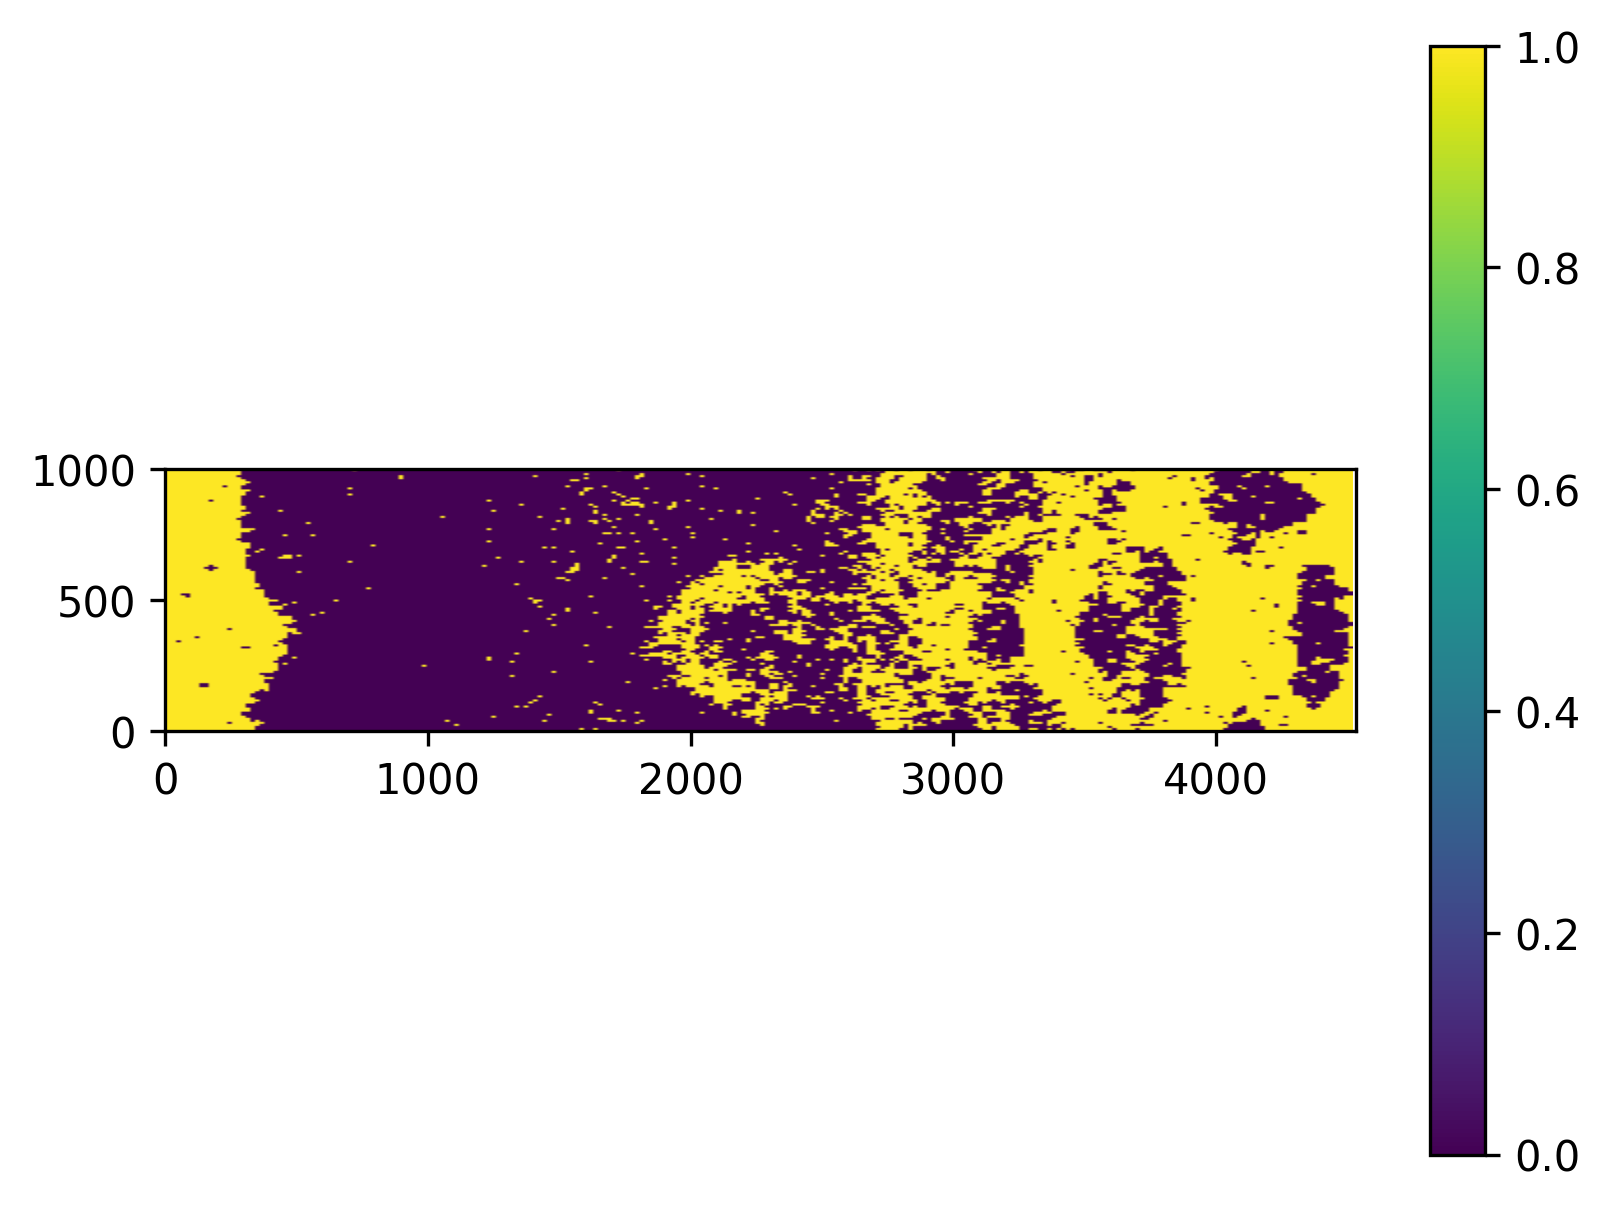
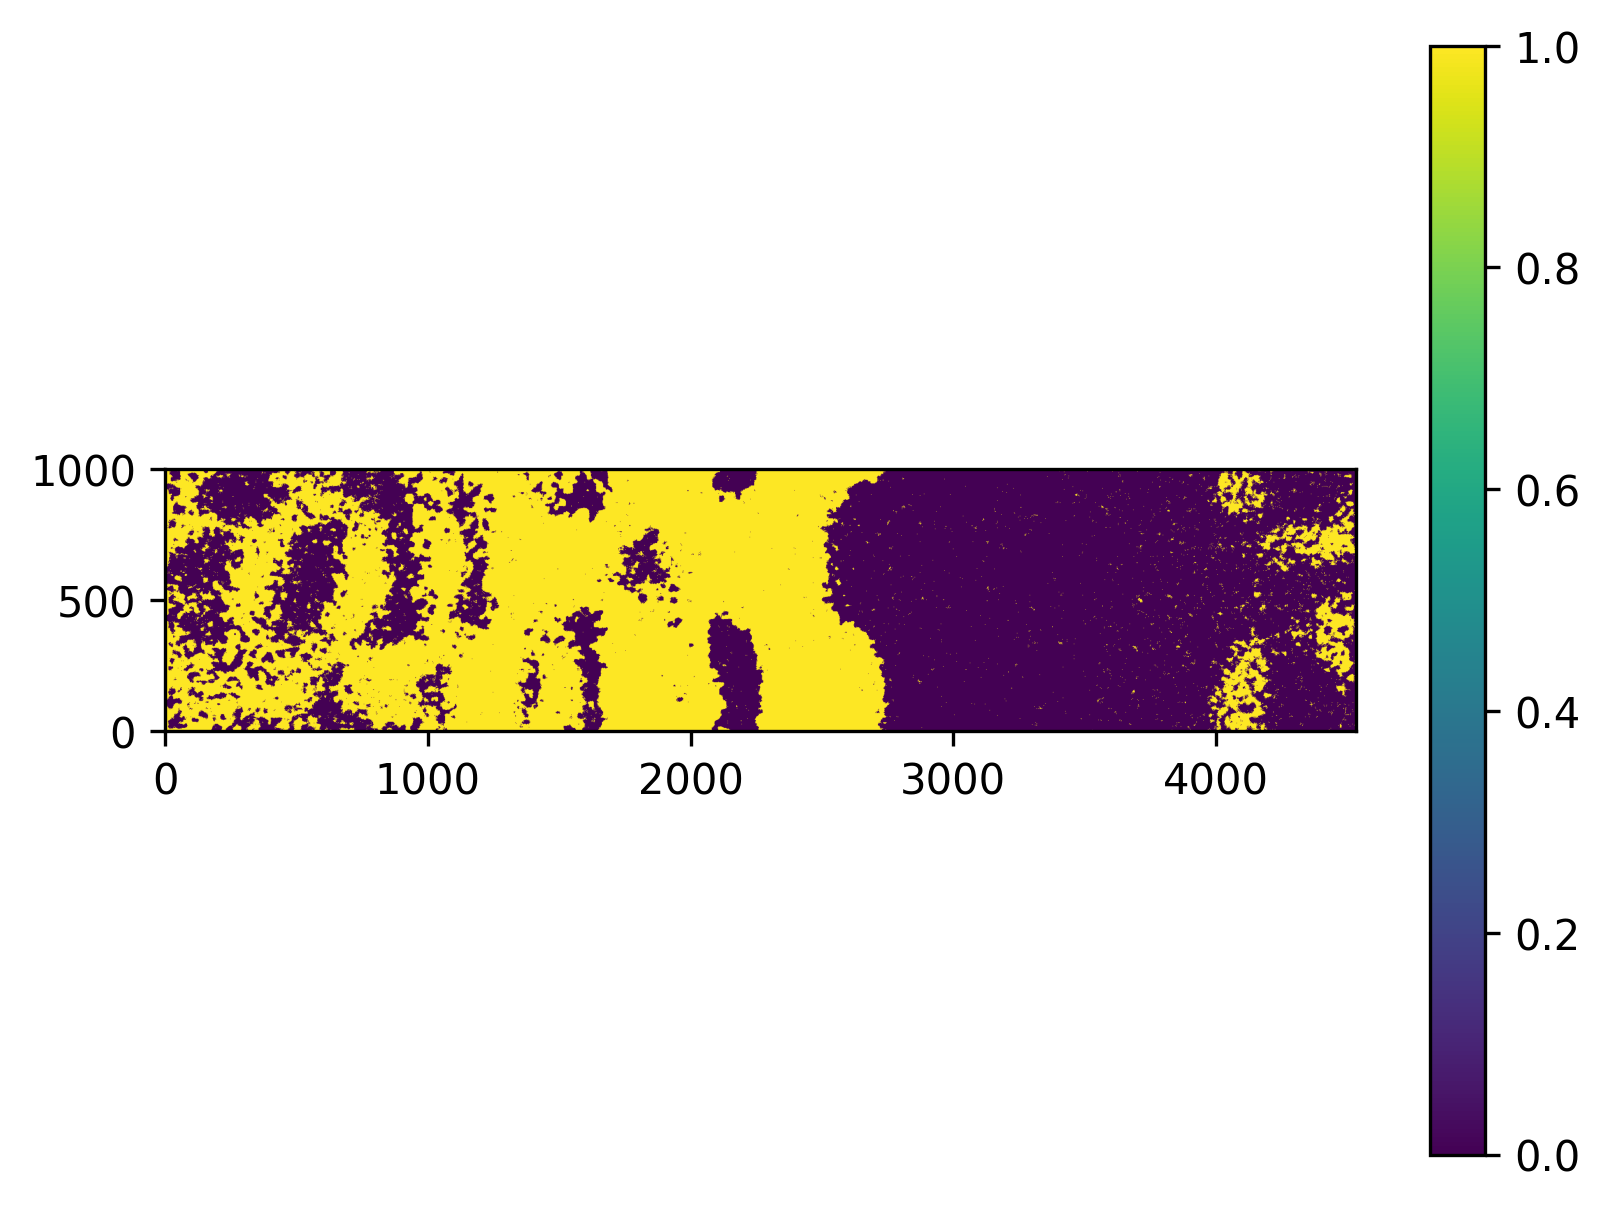
geometric component of the loss added, using kornia module (added to requirements). Tests already to do. The dir has been cleaned from useless stuff

Changed region(s): [[0.0932, 0.3669, 0.8385, 0.6116]]

diff --git a/loss.py b/loss.py
@@ -1,10 +1,11 @@
 import torch
 from torch import Tensor
+import kornia.morphology as kr
 
 
-def geometric_component(rho):
-    # TODO Placeholder
-    return torch.tensor(0)
+def geometric_component(v: Tensor):
+    v_smooth = kr.closing(kr.opening(v))
+    return torch.mean(torch.abs(v-v_smooth))
 
 
 def sample_mean(v: Tensor):
@@ -17,11 +18,3 @@ def geometric_mean(v: Tensor):
 
 def harmonic_mean(v: Tensor):
     return v.numel() / torch.sum(1.0 / v + 1e-6)
-
-
-def rcwa_loss(rho, sigmas, alpha=1):
-    return - harmonic_mean(sigmas) + alpha * geometric_component(rho)
-
-
-if __name__ == '__main__':
-    print(torch.exp(torch.tensor(1)))

diff --git a/net.py b/net.py
@@ -178,7 +178,7 @@ if __name__ == '__main__':
         print(r.shape)
         print(v)
 
-        loss = -lf.harmonic_mean(v)
+        loss = -lf.harmonic_mean(v) + lf.geometric_component(r)
         loss_plot.append(loss.item())
         loss.backward()
         # clipping the gradient